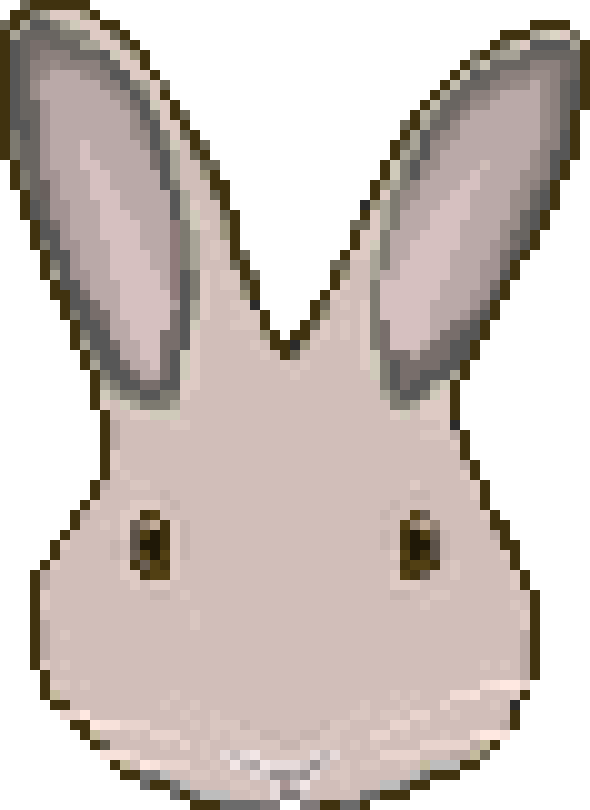
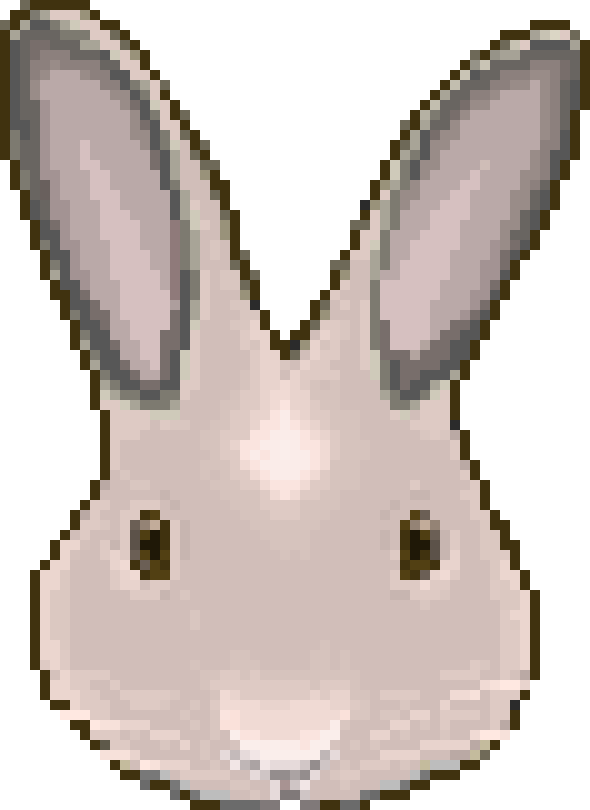
[master] fix close up images, add game save setting, fix bounds setting issue when game save is loaded

diff --git a/src/components/MenuModal/Settings.js b/src/components/MenuModal/Settings.js
@@ -3,7 +3,7 @@ import PropTypes from 'prop-types';
 import { Checkbox } from 'react-bootstrap';
 import styled from 'styled-components';
 
-import { setAudioVolume, toggleAudioTypeMute, toggleAudioMuted } from 'actions';
+import { setAudioVolume, toggleAudioTypeMute, toggleAudioMuted, toggleAllowSaving } from 'actions';
 
 const SettingsHeader = styled('h4')`
   display: flex;
@@ -31,6 +31,9 @@ const AudioSection = styled('div')`
 `;
 
 const SettingsWrapper = styled('div')`
+`;
+
+const AudioWrapper = styled('div')`
   display: flex;
   flex-wrap: wrap;
 `;
@@ -49,59 +52,73 @@ class Settings extends Component {
   }
 
   render() {
-    const { audioSettings: { background, effects } } = this.props;
+    const { audioSettings: { background, effects }, allowSaving } = this.props;
     return (
       <SettingsWrapper>
-        <MuteAllSection>
-          <SettingsHeader>
-            <span>Mute All</span>
-            <StyledCheckbox
-              checked={effects.muted && background.muted}
-              name="allAudio"
-              onChange={toggleAudioMuted}
+        <div>
+          <h1>General</h1>
+            <SettingsHeader>
+              <StyledCheckbox
+                checked={allowSaving}
+                name="allowSaving"
+                onChange={toggleAllowSaving}
+              />
+              <span>Save game on close</span>
+            </SettingsHeader>
+        </div>
+        <AudioWrapper>
+          <h1>Audio</h1>
+          <MuteAllSection>
+            <SettingsHeader>
+              <span>Mute All</span>
+              <StyledCheckbox
+                checked={effects.muted && background.muted}
+                name="allAudio"
+                onChange={toggleAudioMuted}
+              />
+            </SettingsHeader>
+          </MuteAllSection>
+          <AudioSection>
+            <SettingsHeader>
+              <span>Sound Effects</span>
+              <StyledCheckbox
+                checked={!effects.muted}
+                name="effects"
+                onChange={this.toggleAudio('effects')}
+              />
+            </SettingsHeader>
+            <strong>Volume:</strong>
+            <VolumeSlider
+              type="range"
+              value={effects.volume}
+              min={0.0}
+              max={1.0}
+              step={0.1}
+              disabled={effects.muted}
+              onChange={this.changeAudioSetting('effects')}
             />
-          </SettingsHeader>
-        </MuteAllSection>
-        <AudioSection>
-          <SettingsHeader>
-            <span>Sound Effects</span>
-            <StyledCheckbox
-              checked={effects.muted}
-              name="effects"
-              onChange={this.toggleAudio('effects')}
+          </AudioSection>
+          <AudioSection>
+            <SettingsHeader>
+              <span>Background Music</span>
+              <StyledCheckbox
+                checked={!background.muted}
+                name="background"
+                onChange={this.toggleAudio('background')}
+              />
+            </SettingsHeader>
+            <strong>Volume:</strong>
+            <VolumeSlider
+              type="range"
+              value={background.volume}
+              min={0.0}
+              max={1.0}
+              step={0.1}
+              disabled={background.muted}
+              onChange={this.changeAudioSetting('background')}
             />
-          </SettingsHeader>
-          <strong>Volume:</strong>
-          <VolumeSlider
-            type="range"
-            value={effects.volume}
-            min={0.0}
-            max={1.0}
-            step={0.1}
-            disabled={effects.muted}
-            onChange={this.changeAudioSetting('effects')}
-          />
-        </AudioSection>
-        <AudioSection>
-          <SettingsHeader>
-            <span>Background Music</span>
-            <StyledCheckbox
-              checked={background.muted}
-              name="background"
-              onChange={this.toggleAudio('background')}
-            />
-          </SettingsHeader>
-          <strong>Volume:</strong>
-          <VolumeSlider
-            type="range"
-            value={background.volume}
-            min={0.0}
-            max={1.0}
-            step={0.1}
-            disabled={background.muted}
-            onChange={this.changeAudioSetting('background')}
-          />
-        </AudioSection>
+          </AudioSection>
+        </AudioWrapper>
       </SettingsWrapper>
     );
   }

diff --git a/src/actions/index.js b/src/actions/index.js
@@ -46,6 +46,12 @@ export function changeMenuTab(activeTab) {
   tree.set('activeMenuTab', newTab);
 }
 
+export function toggleAllowSaving() {
+  const allowSaving = !tree.get('allowSaving');
+  tree.set('allowSaving', allowSaving);
+  localStorage.setItem('allowSaving', JSON.stringify(allowSaving));
+}
+
 export function toggleAudioMuted() {
   const backgroundMuted = tree.get(['audioSettings', 'background', 'muted']);
   const effectsMuted = tree.get(['audioSettings', 'effects', 'muted']);
@@ -1886,7 +1892,12 @@ export function removeBunnyCollisionWithHero(bunnyId) {
 
 export function saveGame() {
   const bunnies = tree.get('bunnies');
+  const allowSaving = tree.get('allowSaving');
   const bunniesInTransit = bunnies.filter(bunny => bunny.goingToTile);
+
+  if (!allowSaving) {
+    return;
+  }
 
   // Take all actively moving bunnies to their destination tile
   if (bunniesInTransit.length) {
@@ -1905,7 +1916,8 @@ export function saveGame() {
     'activeTile',
     'audioSettings',
     'bunnies',
-    'tiles'
+    'tiles',
+    'allowSaving'
   ];
   const keepState = { ..._pick(gameState, keepKeys) };
 

diff --git a/src/state.js b/src/state.js
@@ -130,6 +130,14 @@ const bunnies = [
   new Bunnies.Yuki(),
 ];
 
+// If localStorage did not have a value, set it now
+if (!localStorage.getItem('allowSaving')) {
+  localStorage.setItem('allowSaving', 'true');
+}
+
+const canSave = localStorage.getItem('allowSaving');
+const allowSaving = canSave === 'true';
+
 const defaultState = {
   hero: {
     position: { x: 700, y: 380 },
@@ -155,8 +163,9 @@ const defaultState = {
   showMenu: true,
   gameStarted: false,
   activeTab: 1,
+  allowSaving,
   tiles,
-  activeTile: { x: 6, y: 4 },
+  activeTile: { x: 4, y: 3 },
   boardDimensions: {},
   backgrounds,
   gameVisible: true,
@@ -240,7 +249,7 @@ const monkeys = {
 };
 
 const savedGame = localStorage.getItem('savedGame');
-const parsed = savedGame ? JSON.parse(atob(savedGame)) : {};
+const parsed = allowSaving && savedGame ? JSON.parse(atob(savedGame)) : {};
 const stateData = { ...defaultState, ...parsed, ...monkeys };
 stateData.hero.abilities = heroAbilities;
 

diff --git a/src/components/Board.js b/src/components/Board.js
@@ -2,6 +2,7 @@ import React, { Component } from 'react';
 import PropTypes from 'prop-types';
 import { branch } from 'baobab-react/higher-order';
 import { Popover } from 'react-bootstrap';
+import _debounce from 'lodash/debounce';
 
 import Hero from 'components/Characters/Hero';
 import MenuModal from 'components/MenuModal';
@@ -29,7 +30,7 @@ class Board extends Component {
   constructor(props, context) {
     super(props, context);
 
-    this.getBoardBounds = this.getBoardBounds.bind(this);
+    this.getBoardBounds = _debounce(this.getBoardBounds.bind(this), 500);
   }
 
   componentWillMount() {
@@ -54,9 +55,7 @@ class Board extends Component {
   }
 
   getBoardBounds() {
-    setTimeout(() => {
-      setBoardDimensions(this.board);
-    }, 1);
+    setBoardDimensions(this.board);
   }
 
   render() {

diff --git a/src/components/MenuModal/MenuTabs.js b/src/components/MenuModal/MenuTabs.js
@@ -18,6 +18,7 @@ import { changeMenuTab } from 'actions';
   allSkills: ['skills'],
   heroSkills: ['hero', 'abilities'],
   audioSettings: ['audioSettings'],
+  allowSaving: ['allowSaving']
 })
 class MenuTabs extends Component {
   static getWonGameContent() {
@@ -66,6 +67,7 @@ class MenuTabs extends Component {
       allSkills,
       heroSkills,
       audioSettings,
+      allowSaving,
     } = this.props;
 
     return (
@@ -84,7 +86,7 @@ class MenuTabs extends Component {
             <Skills allSkills={allSkills} heroSkills={heroSkills} />
           </Tab>
           <Tab eventKey={5} title="Settings">
-            <Settings audioSettings={audioSettings} />
+            <Settings audioSettings={audioSettings} allowSaving={allowSaving} />
           </Tab>
         </Tabs>
       </div>

diff --git a/src/components/Characters/November.js b/src/components/Characters/November.js
@@ -14,9 +14,9 @@ import bunnyFlopLeftImg from 'images/bunnies/November/flop_left.png';
 import bunnyFlopRightImg from 'images/bunnies/November/flop_right.png';
 import bunnyFlopUpImg from 'images/bunnies/November/flop_up.png';
 import bunnyFlopDownImg from 'images/bunnies/November/flop_down.png';
+import bunnyCloseUpImg from 'images/bunnies/November/close_up.png';
 import * as constants from './constants';
 
-// TODO: use actual images
 export default class November {
   constructor() {
     this.name = 'November';
@@ -47,6 +47,7 @@ export default class November {
       flopRight: bunnyFlopRightImg,
       flopUp: bunnyFlopUpImg,
       flopDown: bunnyFlopDownImg,
+      closeup: bunnyCloseUpImg,
     };
   }
 }

diff --git a/src/components/Characters/Spencer.js b/src/components/Characters/Spencer.js
@@ -14,9 +14,9 @@ import bunnyFlopLeftImg from 'images/bunnies/Spencer/flop_left.png';
 import bunnyFlopRightImg from 'images/bunnies/Spencer/flop_right.png';
 import bunnyFlopUpImg from 'images/bunnies/Spencer/flop_up.png';
 import bunnyFlopDownImg from 'images/bunnies/Spencer/flop_down.png';
+import bunnyCloseUpImg from 'images/bunnies/Spencer/close_up.png';
 import * as constants from './constants';
 
-// TODO: use actual images
 export default class Spencer {
   constructor() {
     this.name = 'Spencer';
@@ -47,6 +47,7 @@ export default class Spencer {
       flopRight: bunnyFlopRightImg,
       flopUp: bunnyFlopUpImg,
       flopDown: bunnyFlopDownImg,
+      closeup: bunnyCloseUpImg,
     };
   }
 }

diff --git a/src/components/MenuModal/Bunnies.js b/src/components/MenuModal/Bunnies.js
@@ -5,7 +5,6 @@ import _orderBy from 'lodash/orderBy';
 
 const Bunnies = ({ bunnies }) => {
   const bunnyElements = _orderBy(bunnies, ['hasCollected', 'name'], ['desc', 'asc']).map((bunny) => {
-    // TODO: use actual bunny images
     return (
       <div key={`bunny_${bunny.name}`} className={`inventory-item-cell grid-cell ${bunny.hasCollected ? '' : 'disabled'}`}>
         <div className="inventory-item-cell-content flex flex-grow">

diff --git a/README.md b/README.md
@@ -122,15 +122,19 @@ Use `keyboard controls` or `WASD` to move, `space` for action, and `i` to bring 
 
 ~~Create characters~~
 
+~~Create game state storage~~
+
+~~Maybe save state to session using store.js to let players continue~~
+
+~~Create character close up art~~
+
 Finalize produce placement on tiles
 
-Add art for various plant leaves, vines, trees, dirt mounds, etc
+Add art for various plant leaves, vines, trees, dirt mounds, tombstones, etc
 
 Add art/items for other scenery items like flowers, bridges, leaves, stumps, shrubs, etc
 
-Add various backgrounds like different grass, water, mud, rocks, etc
-
-Create character close up art
+Add various backgrounds like different grass, water, mud, rocks, cemetery, etc
 
 Maybe have some bunnies only join if you bring them a certain number of produce items
 
@@ -152,8 +156,4 @@ Add unit tests
 
 Maybe have alt state for food items for buried items so the entity doesn't go away, but it shows like an empty patch where the produce was
 
-Create game state storage
-
 Pause game state when browser is idle (see TODOs in code)
-
-Maybe save state to session using store.js to let players continue
